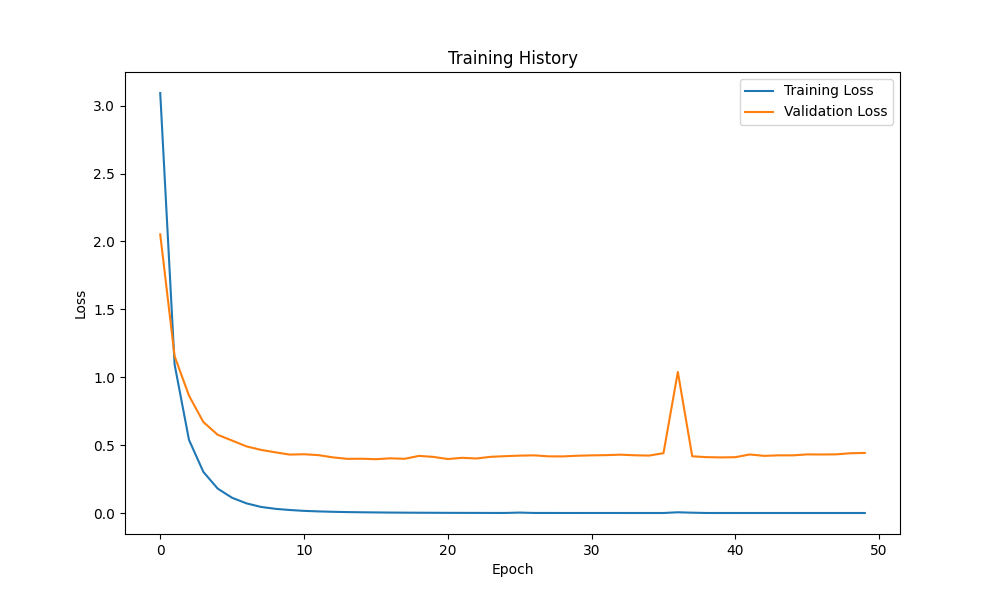
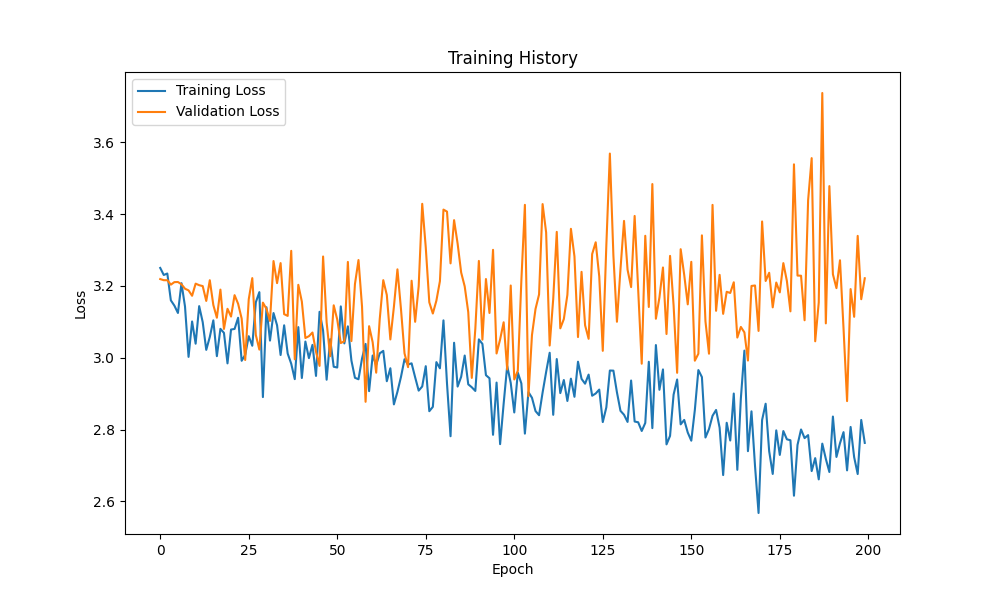
#9 updated model training and capture still needs work

diff --git a/finger-spelling-app/modelTraining.py b/finger-spelling-app/modelTraining.py
@@ -1,5 +1,6 @@
 # Install dependencies as needed:
 # pip install kagglehub[pandas-datasets]
+import numpy as np
 import kagglehub
 from kagglehub import KaggleDatasetAdapter
 import pandas as pd
@@ -11,11 +12,13 @@ from sklearn.model_selection import train_test_split
 from torchvision import transforms
 import matplotlib.pyplot as plt
 import os
+from torchvision.transforms import ToPILImage
+import random
 
 # Set the paths to the training and validation files
 #train_file_path = "data/sign_mnist_train/sign_mnist_train.csv"  # Adjust this path as needed
 #val_file_path = "data/sign_mnist_test/sign_mnist_test.csv"    # Adjust this path as needed
-train_file_path = "data/slp-training/model_tranining.csv"  # Adjust this path as needed
+train_file_path = "data/slp-training/model_training.csv"  # Adjust this path as needed
 val_file_path = "data/slp-training/model_validation.csv"    # Adjust this path as needed
 
 # Check if files exist
@@ -36,6 +39,12 @@ class SignLanguageDataset(Dataset):
     def __init__(self, dataframe, transform=None):
         self.dataframe = dataframe
         self.transform = transform
+        self.to_pil = ToPILImage()  # Create a transform to convert tensor to PIL Image
+        
+        # Create a mapping from letters to indices
+        self.label_mapping = {letter: idx for idx, letter in enumerate(sorted(dataframe['label'].unique()))}
+        
+        #Todo: reduce the z index and dimentions being captured in landmark
 
     def __len__(self):
         return len(self.dataframe)
@@ -43,10 +52,71 @@ class SignLanguageDataset(Dataset):
     def __getitem__(self, idx):
         row = self.dataframe.iloc[idx]
         label = row['label']
-        image = row.drop('label').values.astype('float32').reshape(28, 28)  # Assuming 28x28 images
+        
+        # Convert label to numerical index
+        label_index = self.label_mapping[label]
+        
+        landmarks = row.drop('label').values.astype('float32')
+    
+        # Clean up invalid values
+        landmarks = np.nan_to_num(landmarks, nan=0.0)
+        
+        # Normalize to [0,1] range properly (only if values aren't already normalized)
+        if np.max(landmarks) > 1.0 or np.min(landmarks) < 0.0:
+            min_val = np.min(landmarks)
+            max_val = np.max(landmarks)
+            # Avoid division by zero with small epsilon
+            landmarks = (landmarks - min_val) / (max_val - min_val + 1e-8)
+        
+        # Apply augmentations
+        landmarks = self.augment_landmarks(landmarks)
+        
+        # Convert to tensor
+        landmarks_tensor = torch.FloatTensor(landmarks)
+        
+        # Pad or resize to match the expected input size for the model
+        if landmarks_tensor.size(0) < 784:
+            # Pad with zeros if less than 784
+            padding = torch.zeros(784 - landmarks_tensor.size(0))
+            landmarks_tensor = torch.cat([landmarks_tensor, padding])
+        else:
+            # Truncate if more than 784
+            landmarks_tensor = landmarks_tensor[:784]
+        
+        # Reshape to match the expected input for the model
+        landmarks_tensor = landmarks_tensor.view(1, 1, 28, 28)  # Reshape to [1, 1, 28, 28]
+        
         if self.transform:
-            image = self.transform(image)
-        return image, label
+            # Convert landmarks_tensor to PIL Image before applying transformations
+            landmarks_image = self.to_pil(landmarks_tensor.squeeze(0))  # Remove the batch dimension for PIL conversion
+            landmarks_tensor = self.transform(landmarks_image)
+        
+        return landmarks_tensor, label_index  # Return the numerical label index
+
+    def augment_landmarks(self, landmarks):
+        # Random rotation
+        angle = random.uniform(-10, 10)  # Rotate between -10 and 10 degrees
+        rotation_matrix = np.array([[np.cos(np.radians(angle)), -np.sin(np.radians(angle))],
+                                     [np.sin(np.radians(angle)), np.cos(np.radians(angle))]])
+        
+        # Apply rotation to x, y coordinates
+        for i in range(0, len(landmarks), 3):  # Iterate over x, y pairs
+            x, y = landmarks[i], landmarks[i + 1]
+            rotated = rotation_matrix @ np.array([x, y])
+            landmarks[i], landmarks[i + 1] = rotated[0], rotated[1]
+        
+        # Random scaling
+        scale = random.uniform(0.9, 1.1)  # Scale between 90% and 110%
+        landmarks[::3] *= scale  # Scale x coordinates
+        landmarks[1::3] *= scale  # Scale y coordinates
+        
+        # Random translation
+        translation_x = random.uniform(-0.1, 0.1)  # Translate x by -10% to 10%
+        translation_y = random.uniform(-0.1, 0.1)  # Translate y by -10% to 10%
+        landmarks[::3] += translation_x  # Translate x coordinates
+        landmarks[1::3] += translation_y  # Translate y coordinates
+        
+        return landmarks
 
 # Define transformations
 transform = transforms.Compose([
@@ -67,24 +137,28 @@ class SimpleCNN(nn.Module):
     def __init__(self):
         super(SimpleCNN, self).__init__()
         self.conv1 = nn.Conv2d(1, 32, kernel_size=3, stride=1, padding=1)
+        self.bn1 = nn.BatchNorm2d(32) # Batch Norm after conv1
         self.conv2 = nn.Conv2d(32, 64, kernel_size=3, stride=1, padding=1)
+        self.bn2 = nn.BatchNorm2d(64) # Batch Norm after conv2
         self.fc1 = nn.Linear(64 * 7 * 7, 128)
-        self.fc2 = nn.Linear(128, 25)  # Assuming 25 classes for sign language
+        self.dropout1 = nn.Dropout(0.5) # Dropout before fc2
+        self.fc2 = nn.Linear(128, 25)
 
     def forward(self, x):
-        x = torch.relu(self.conv1(x))
+        x = torch.relu(self.bn1(self.conv1(x))) # BN before ReLU, common practice
         x = torch.max_pool2d(x, 2)
-        x = torch.relu(self.conv2(x))
+        x = torch.relu(self.bn2(self.conv2(x))) # BN before ReLU
         x = torch.max_pool2d(x, 2)
         x = x.view(x.size(0), -1)
         x = torch.relu(self.fc1(x))
+        x = self.dropout1(x) # Apply dropout
         x = self.fc2(x)
         return x
 
 # Initialize the model, loss function, and optimizer
 model = SimpleCNN()
 criterion = nn.CrossEntropyLoss()
-optimizer = optim.Adam(model.parameters(), lr=0.00001)
+optimizer = optim.Adam(model.parameters(), lr=0.0001)
 
 # Training loop
 def train_model(num_epochs=10):
@@ -95,28 +169,39 @@ def train_model(num_epochs=10):
     for epoch in range(num_epochs):
         model.train()
         running_loss = 0.0
-        for images, labels in train_loader:
+        for landmarks_tensor, labels in train_loader:
             optimizer.zero_grad()
-            outputs = model(images)
+            
+            # Convert labels to tensor if needed, then to long type
+            if not isinstance(labels, torch.Tensor):
+                labels = torch.tensor(labels)
+            
+            labels = labels.long()  # Convert to long type
+            outputs = model(landmarks_tensor)
             loss = criterion(outputs, labels)
             loss.backward()
             optimizer.step()
             running_loss += loss.item()
         
         # Calculate average training loss
-        avg_train_loss = running_loss/len(train_loader)
+        avg_train_loss = running_loss / len(train_loader)
         train_losses.append(avg_train_loss)
         
         # Validation phase
         model.eval()
         val_loss = 0.0
         with torch.no_grad():
-            for images, labels in val_loader:
-                outputs = model(images)
+            for landmarks_tensor, labels in val_loader:
+                if isinstance(labels, torch.Tensor):
+                    labels = labels.long()  # Convert labels to LongTensor if they are not already
+                else:
+                    raise TypeError(f"Expected labels to be a tensor, got {type(labels)}")
+                
+                outputs = model(landmarks_tensor)
                 loss = criterion(outputs, labels)
                 val_loss += loss.item()
                 
-        avg_val_loss = val_loss/len(val_loader)
+        avg_val_loss = val_loss / len(val_loader)
         val_losses.append(avg_val_loss)
         
         print(f"Epoch [{epoch+1}/{num_epochs}], Train Loss: {avg_train_loss:.4f}, Val Loss: {avg_val_loss:.4f}")
@@ -124,15 +209,7 @@ def train_model(num_epochs=10):
         # Save the model if validation loss improves
         if avg_val_loss < best_val_loss:
             best_val_loss = avg_val_loss
-            # Save both the model architecture and weights
-            torch.save({
-                'epoch': epoch,
-                'model_state_dict': model.state_dict(),
-                'optimizer_state_dict': optimizer.state_dict(),
-                'train_loss': avg_train_loss,
-                'val_loss': avg_val_loss,
-            }, 'best_model.pt')
-            print(f"Model saved at epoch {epoch+1} with validation loss: {avg_val_loss:.4f}")
+            torch.save(model.state_dict(), 'best_model.pth')
     
     return train_losses, val_losses
 
@@ -149,7 +226,7 @@ def plot_training_history(train_losses, val_losses):
 
 def main():
     # Train the model
-    train_losses, val_losses = train_model(num_epochs=50)
+    train_losses, val_losses = train_model(num_epochs=200)
     
     # Save the final model regardless of performance
     torch.save({

diff --git a/finger-spelling-app/modelDataCapture.py b/finger-spelling-app/modelDataCapture.py
@@ -42,7 +42,7 @@ def main():
     cap = cv2.VideoCapture(0)
     
     # Ensure the CSV file exists
-    csv_file = 'data/slp-training/model_validation.csv'
+    csv_file = 'data/slp-training/model_training.csv'
     os.makedirs(os.path.dirname(csv_file), exist_ok=True)  # Create directory if it doesn't exist
     if not os.path.exists(csv_file):
         with open(csv_file, 'w', newline='') as f:

diff --git a/finger-spelling-app/README.md b/finger-spelling-app/README.md
@@ -1,0 +1,21 @@
+There is multiple parts to this projects
+
+## Model Data Capture
+
+This is the first part of the project.
+
+The goal of this part is to capture the data from the user and save it to a CSV file.
+
+## Model Training
+
+This is the second part of the project.
+
+The goal of this part is to train the model on the data captured from the user.
+
+## Model Inference
+
+This is the third part of the project.
+
+The goal of this part is to use the trained model to make predictions on new data.
+
+Opens the users Camera and captures the gesture landmark and send to the model inference
